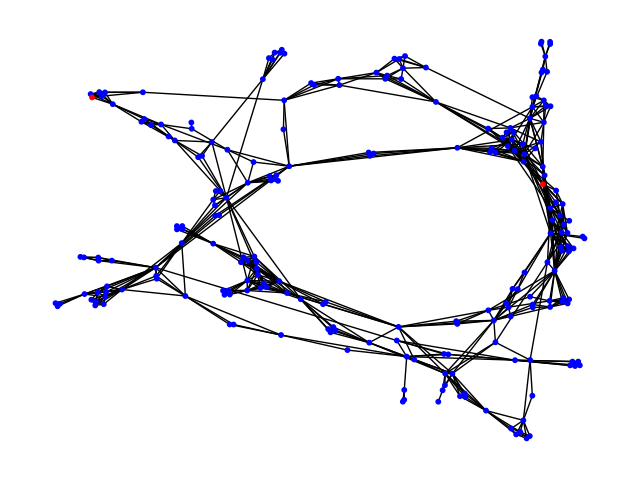
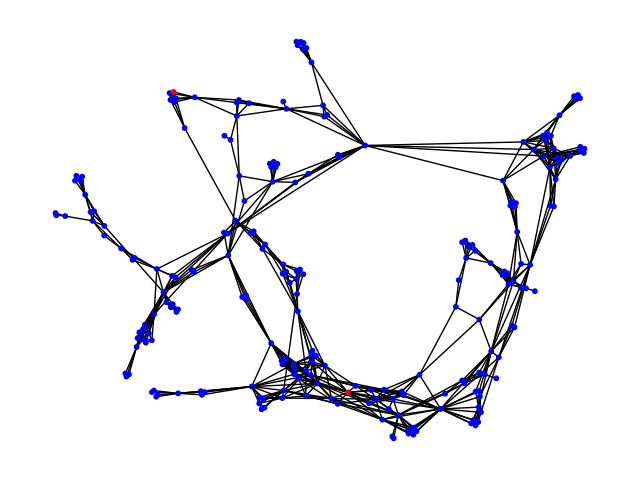
common neighbor check

diff --git a/analysis/network_metrics.py b/analysis/network_metrics.py
@@ -7,7 +7,7 @@ from collections import Counter
 from itertools import combinations
 # Specify Input Parameter
 fileNames= [515, 629, 1086, 670, 616, 545, 1012, 583, 516, 518, 584, 551]
-highlightIDs={
+pathExistsIds={
 	629: ["096376795", "096371032"],  # low_1
     1086: ["079626113", "079776038"], # low_2
 	670: ["61F", "62F"],              # low_3
@@ -22,14 +22,57 @@ highlightIDs={
 	551: ["062104553", "062336070"]  # high_6
 }
 
+commonNeighborIds={
+    629: ["096376795", "096371032"],  # low_1
+    1086: ["079626113", "079776038"], # low_2
+	670: ["61F", "62F"],              # low_3
+	616: ["053616858", "062298895"],  # low_4
+	515: ["055542033", "052866845"],  # low_5
+	545: ["055804021", "047030601"],  # low_6
+	1012: ["nina", "pippa"],          # high_1
+	583: ["053359026", "052543127"],  # high_2
+	516: ["053370622", "053344784"],  # high_3 
+	518: ["062333624", "062322357"],  # high_4
+	584: ["052864516", "053560558"],  # high_5
+	551: ["062104553", "062336070"]  # high_6
+}
+
+
 # Outputs
 medians={}
 
+def checkIfExactCommonNeighborsExists(target_common_neighbors: int):
+    for fileName in fileNames:
+        G = nx.read_graphml(path="datasets/Network_" + str(fileName) + ".graphml")
+        sources_targets = pathExistsIds.get(fileName, [])
+        for source, target in combinations(sources_targets, 2):
+            try:
+                common_neighbors = list(nx.common_neighbors(G, source, target))
+                if len(common_neighbors) == target_common_neighbors:
+                    print(f"Exact number of common neighbors ({target_common_neighbors}) exists between {source} and {target} in file {fileName}: {common_neighbors}")
+                else:
+                    print(f"Number of common neighbors between {source} and {target} in file {fileName} is {len(common_neighbors)}, not {target_common_neighbors}")
+            except nx.NodeNotFound as e:
+                print(f"Node not found: {e} in file {fileName}")
+
+def checkCommonNeightbors() -> bool:
+    for fileName in fileNames:
+        G = nx.read_graphml(path="datasets/Network_" + str(fileName) + ".graphml")
+        sources_targets = pathExistsIds.get(fileName, [])
+        for source, target in combinations(sources_targets, 2):
+            try:
+                common_neighbors = list(nx.common_neighbors(G, source, target))
+                if common_neighbors:
+                    print(f"Common neighbors exist between {source} and {target} in file {fileName}: {common_neighbors}")
+                else:
+                    print(f"No common neighbors between {source} and {target} in file {fileName}")
+            except nx.NodeNotFound as e:
+                print(f"Node not found: {e} in file {fileName}")
 
 def checkIfExactLengthPathExists(target_length: int):
     for fileName in fileNames:
         G = nx.read_graphml(path="datasets/Network_" + str(fileName) + ".graphml")
-        sources_targets = highlightIDs.get(fileName, [])
+        sources_targets = pathExistsIds.get(fileName, [])
         for source, target in combinations(sources_targets, 2):
             try:
                 found = False
@@ -47,7 +90,7 @@ def checkIfExactLengthPathExists(target_length: int):
 def checkIfPathExists() -> bool:
     for fileName in fileNames:
         G = nx.read_graphml(path="datasets/Network_" + str(fileName) + ".graphml")
-        sources_targets = highlightIDs.get(fileName, [])
+        sources_targets = pathExistsIds.get(fileName, [])
         for source, target in combinations(sources_targets, 2):
             try:
                 path_length = nx.shortest_path_length(G, source=source, target=target)
@@ -135,7 +178,7 @@ def getAllPathLengths() -> None:
         
         # Plot Graph Drawing
         positions=nx.forceatlas2_layout(G)
-        nodeColors = ["red" if nodeID in highlightIDs[fileName] else "blue" for nodeID in sorted(G.nodes())]
+        nodeColors = ["red" if nodeID in pathExistsIds[fileName] else "blue" for nodeID in sorted(G.nodes())]
         plt.figure()
         drawing=nx.draw(G, positions, node_size=10, node_color=nodeColors)
         plt.draw()
@@ -159,5 +202,10 @@ def getAllPathLengths() -> None:
 if __name__ == "__main__":
     getAllCommonNeighbors()
     getAllPathLengths()
+    # Path Analysis
     checkIfPathExists()
     checkIfExactLengthPathExists(4)
+    # Common Neighbors Analysis
+    checkCommonNeightbors()
+    checkIfExactCommonNeighborsExists(4)
+    
